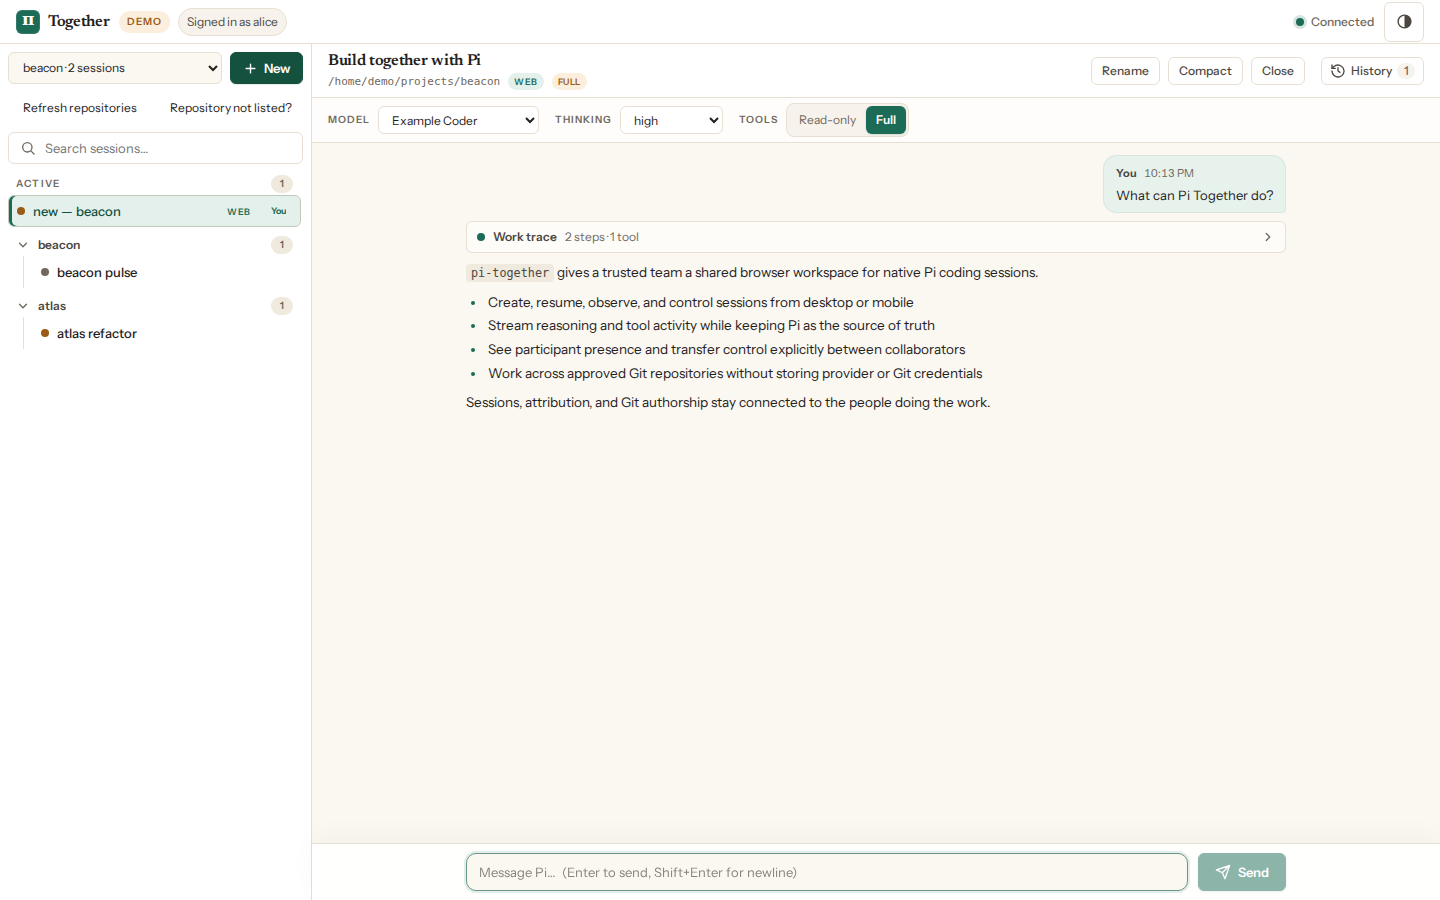
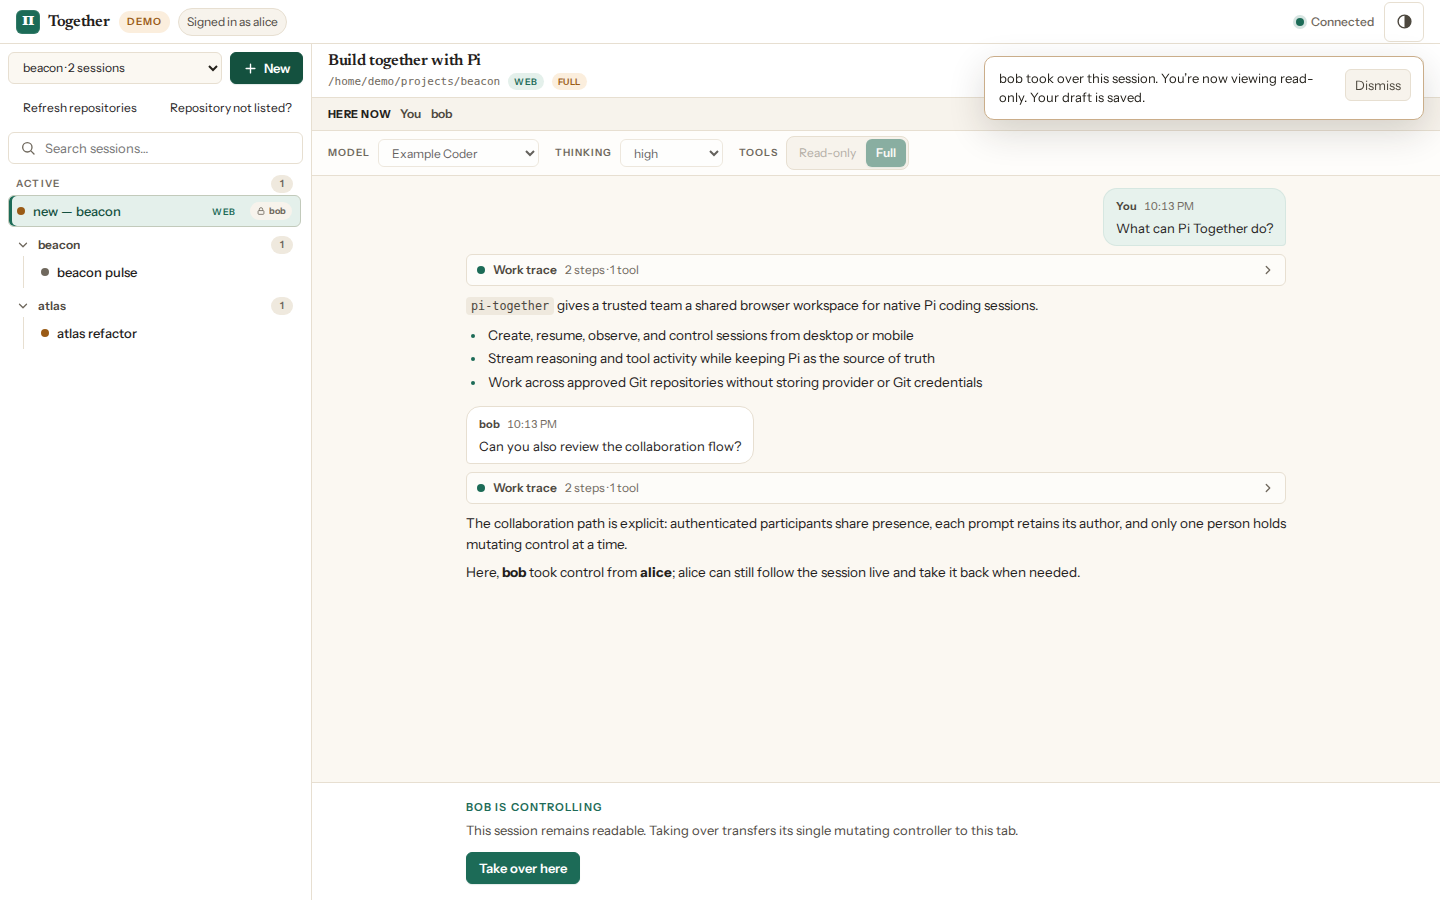
docs: show collaborative turn in dashboard hero

diff --git a/README.md b/README.md
@@ -8,10 +8,10 @@ Pi Together is an independent community project. It is not affiliated with, endo
 
 <p align="center">
   <a href="docs/images/pi-together-dashboard.png">
-    <img src="docs/images/pi-together-dashboard.png" alt="Pi Together desktop dashboard showing shared sessions, model and tool controls, a work trace, and a synthetic conversation" width="1200">
+    <img src="docs/images/pi-together-dashboard.png" alt="Pi Together desktop dashboard showing Alice and Bob collaborating in an attributed session with Bob holding control" width="1200">
   </a>
 </p>
-<p align="center"><sub>Desktop dashboard with synthetic demo identities, repositories, and conversation content.</sub></p>
+<p align="center"><sub>Alice follows Bob's attributed turn after an explicit control transfer. Synthetic demo data shown.</sub></p>
 
 ## Before you install
 
